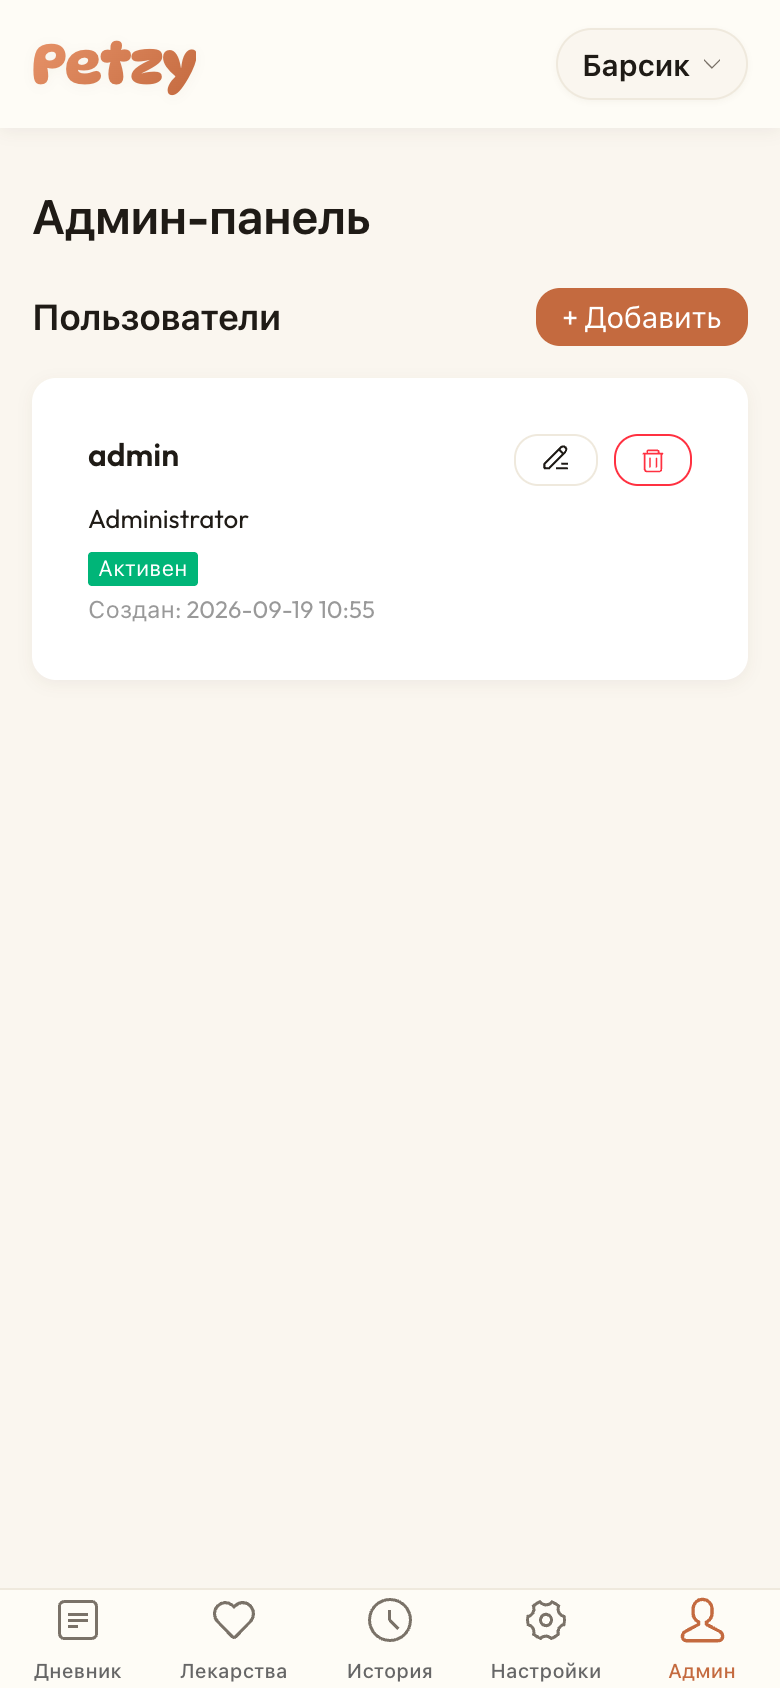
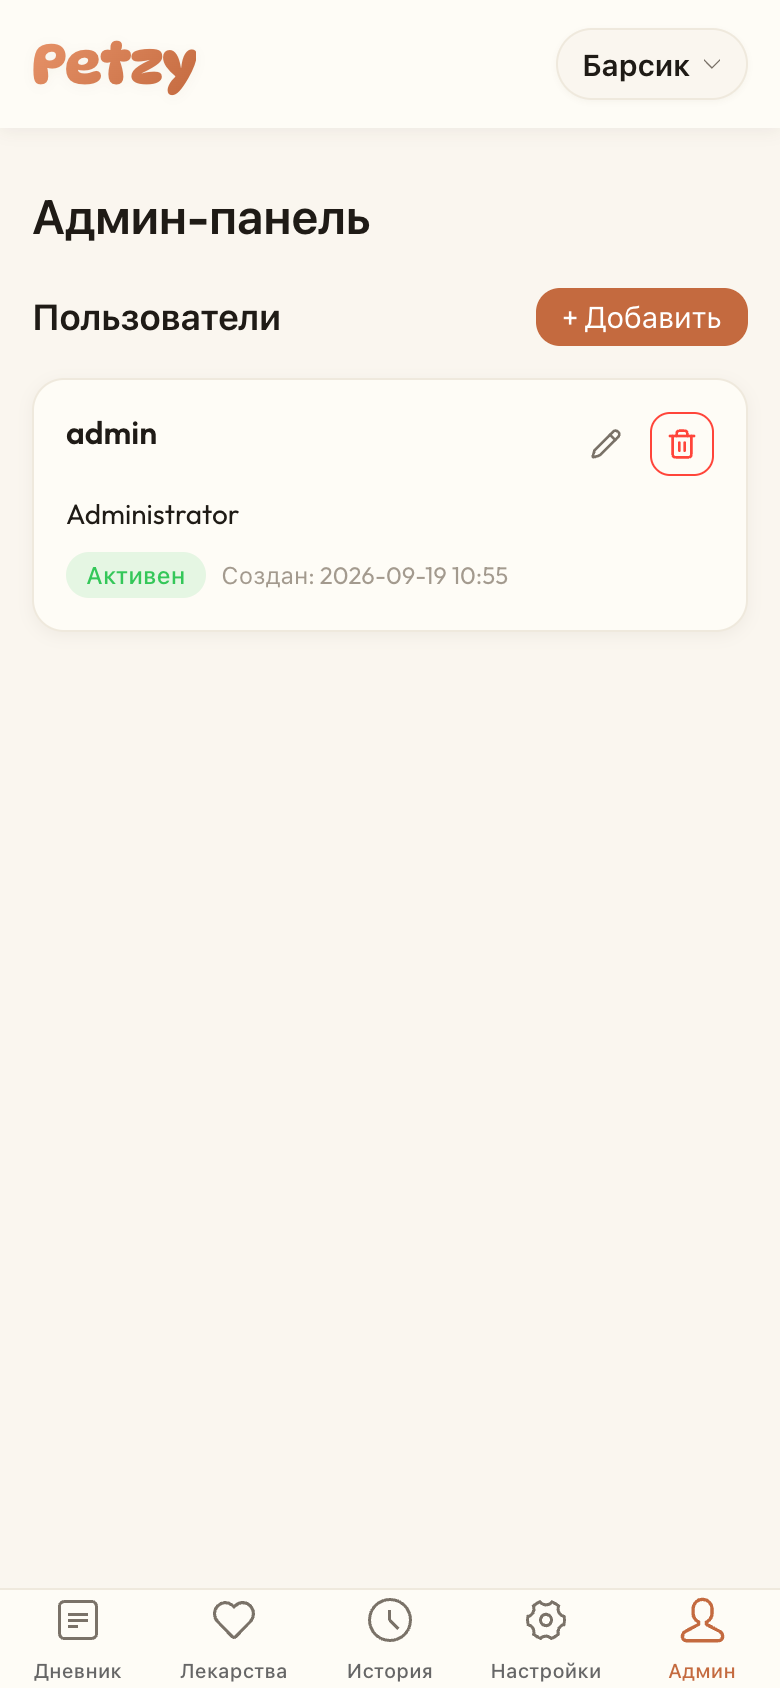
fix(ui): rebrand AdminPanel user card to match the warm design system
The user card on AdminPanel still shipped with antd-mobile Card
(stark white surface), antd-mobile-icons (Pencil/Trash emoji-style),
and antd-mobile Tag (default green/red) — leftovers from before the
Pawza rebrand.

- Replace `<Card>` with the `card-soft` class so the surface uses
  `--app-card-background` (#FEFCF6) with the warm shadow and border
- Replace `EditSOutline` / `DeleteOutline` with lucide `Pencil` /
  `Trash2` line-art, in 32×32 transparent icon buttons
- Replace `<Tag>` with the `.chip` token: tinted backgrounds
  (rgba green/red) with text in `--app-success-color` /
  `--app-danger-color`
- Add `tap-ripple` for native tactile feedback; light haptic on edit,
  medium on delete trigger
- Drop `--adm-color-weak` references in favour of the warm
  `--app-text-secondary` / `--app-text-tertiary`

The card now reads as the same identity as HistoryItem / PetSummaryCard /
Medication cards — same off-white surface, same chip vocabulary, same
icon style.

diff --git a/frontend/src/pages/AdminPanel.tsx b/frontend/src/pages/AdminPanel.tsx
@@ -1,12 +1,13 @@
 import { useState } from 'react';
 import { useNavigate } from 'react-router-dom';
 import { useQuery, useMutation, useQueryClient } from '@tanstack/react-query';
-import { Button, Card, Dialog, Tag } from 'antd-mobile';
-import { EditSOutline, DeleteOutline } from 'antd-mobile-icons';
+import { Button, Dialog } from 'antd-mobile';
+import { Pencil, Trash2 } from 'lucide-react';
 import { useAdmin } from '../hooks/useAdmin';
 import { usersService, type User } from '../services/users.service';
 import { Alert } from '../components/Alert';
 import { LoadingSpinner } from '../components/LoadingSpinner';
+import { hapticFeedback } from '../utils/haptic';
 
 export function AdminPanel() {
   const navigate = useNavigate();
@@ -41,14 +42,17 @@ export function AdminPanel() {
   });
 
   const handleDelete = (username: string) => {
+    hapticFeedback('medium');
     setDeleteDialog({ visible: true, username });
   };
 
   const handleEdit = (user: User) => {
+    hapticFeedback('light');
     navigate(`/admin/users/${user.username}/edit`);
   };
 
   const handleNewUser = () => {
+    hapticFeedback('light');
     navigate('/admin/users/new');
   };
 
@@ -131,53 +135,89 @@ export function AdminPanel() {
               <p style={{ color: 'var(--app-text-secondary)', padding: 'var(--spacing-md) var(--spacing-lg)' }}>Пользователи не найдены</p>
             ) : (
               users.map((user) => (
-                <Card
+                <div
                   key={user._id}
-                  style={{
-                    borderRadius: '12px',
-                    border: 'none',
-                    boxShadow: 'var(--app-shadow)',
-                  }}
+                  className="card-soft tap-ripple"
+                  style={{ padding: 16 }}
                 >
-                  <div style={{ padding: '16px' }}>
-                    <div style={{ display: 'flex', justifyContent: 'space-between', alignItems: 'flex-start', marginBottom: '8px' }}>
-                      <span style={{ fontWeight: 600, fontSize: '16px' }}>{user.username}</span>
-                      <div style={{ display: 'flex', gap: '8px', alignItems: 'center' }}>
-                        <Button
-                          size="mini"
-                          fill="outline"
-                          onClick={() => handleEdit(user)}
-                          style={{
-                            '--text-color': 'var(--app-text-primary)',
-                            '--border-color': 'var(--app-border-color)',
-                            backgroundColor: 'transparent',
-                          } as React.CSSProperties}
-                        >
-                          <EditSOutline style={{ color: 'var(--app-text-primary)', fontSize: '16px' }} />
-                        </Button>
-                        <Button
-                          size="mini"
-                          color="danger"
-                          fill="outline"
-                          onClick={() => handleDelete(user.username)}
-                          disabled={deleteUserMutation.isPending}
-                        >
-                          <DeleteOutline />
-                        </Button>
-                      </div>
-                    </div>
-                    <div style={{ display: 'flex', flexDirection: 'column', gap: '4px' }}>
-                      {user.full_name && <span>{user.full_name}</span>}
-                      {user.email && <span style={{ fontSize: '12px', color: 'var(--adm-color-weak)' }}>{user.email}</span>}
-                      <div style={{ marginTop: '4px' }}>
-                        <Tag color={user.is_active !== false ? 'success' : 'danger'}>
-                          {user.is_active !== false ? 'Активен' : 'Неактивен'}
-                        </Tag>
-                      </div>
-                      {user.created_at && <span style={{ fontSize: '12px', color: 'var(--adm-color-weak)' }}>Создан: {user.created_at}</span>}
+                  <div style={{
+                    display: 'flex',
+                    justifyContent: 'space-between',
+                    alignItems: 'flex-start',
+                    marginBottom: 10,
+                  }}>
+                    <span style={{
+                      fontWeight: 600,
+                      fontSize: 16,
+                      fontFamily: 'var(--font-display)',
+                      color: 'var(--app-text-primary)',
+                    }}>
+                      {user.username}
+                    </span>
+                    <div style={{ display: 'flex', gap: 6, alignItems: 'center' }}>
+                      <button
+                        type="button"
+                        onClick={() => handleEdit(user)}
+                        aria-label="Редактировать"
+                        style={{
+                          width: 32, height: 32, padding: 0,
+                          border: 'none', borderRadius: 10,
+                          background: 'transparent',
+                          color: 'var(--app-text-secondary)',
+                          cursor: 'pointer', display: 'grid', placeItems: 'center',
+                        }}
+                      >
+                        <Pencil size={16} strokeWidth={2} />
+                      </button>
+                      <button
+                        type="button"
+                        onClick={() => handleDelete(user.username)}
+                        disabled={deleteUserMutation.isPending}
+                        aria-label="Удалить"
+                        style={{
+                          width: 32, height: 32, padding: 0,
+                          border: '1px solid var(--app-danger-color)',
+                          borderRadius: 10,
+                          background: 'transparent',
+                          color: 'var(--app-danger-color)',
+                          cursor: deleteUserMutation.isPending ? 'not-allowed' : 'pointer',
+                          opacity: deleteUserMutation.isPending ? 0.5 : 1,
+                          display: 'grid', placeItems: 'center',
+                        }}
+                      >
+                        <Trash2 size={16} strokeWidth={2} />
+                      </button>
                     </div>
                   </div>
-                </Card>
+                  <div style={{ display: 'flex', flexDirection: 'column', gap: 4 }}>
+                    {user.full_name && (
+                      <span style={{ fontSize: 14, color: 'var(--app-text-primary)' }}>{user.full_name}</span>
+                    )}
+                    {user.email && (
+                      <span style={{ fontSize: 12, color: 'var(--app-text-secondary)' }}>{user.email}</span>
+                    )}
+                    <div style={{ marginTop: 6, display: 'flex', gap: 8, alignItems: 'center', flexWrap: 'wrap' }}>
+                      <span
+                        className="chip"
+                        style={{
+                          background: user.is_active !== false
+                            ? 'rgba(52, 199, 89, 0.12)'
+                            : 'rgba(255, 69, 58, 0.10)',
+                          color: user.is_active !== false
+                            ? 'var(--app-success-color)'
+                            : 'var(--app-danger-color)',
+                        }}
+                      >
+                        {user.is_active !== false ? 'Активен' : 'Неактивен'}
+                      </span>
+                      {user.created_at && (
+                        <span style={{ fontSize: 12, color: 'var(--app-text-tertiary)' }}>
+                          Создан: {user.created_at}
+                        </span>
+                      )}
+                    </div>
+                  </div>
+                </div>
               ))
             )}
           </div>
